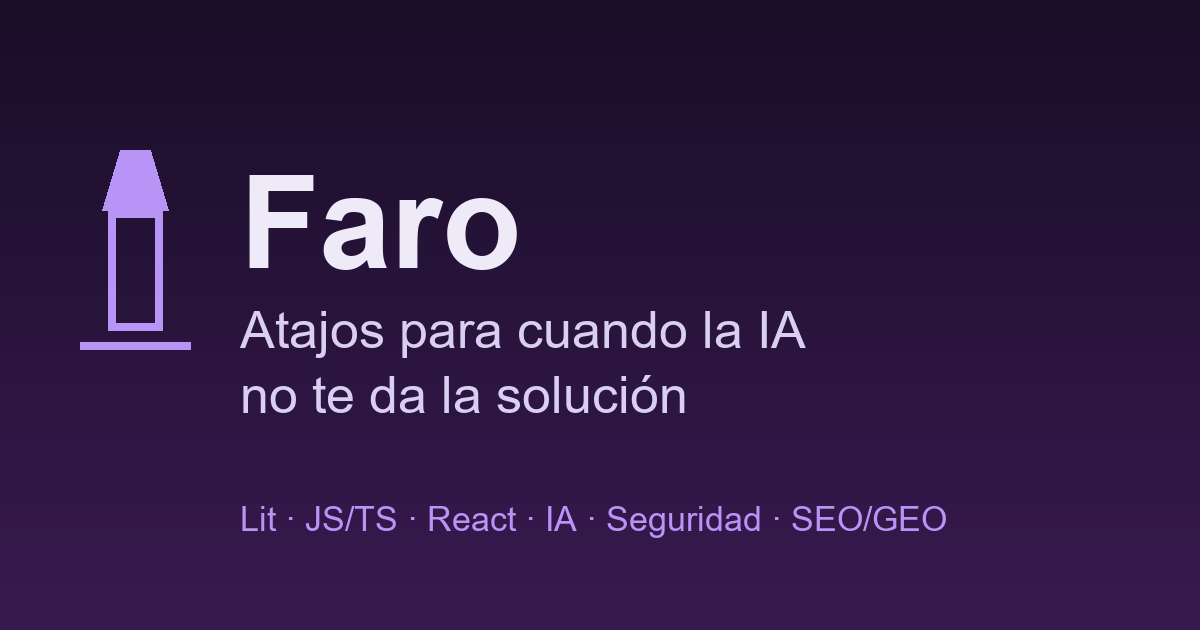
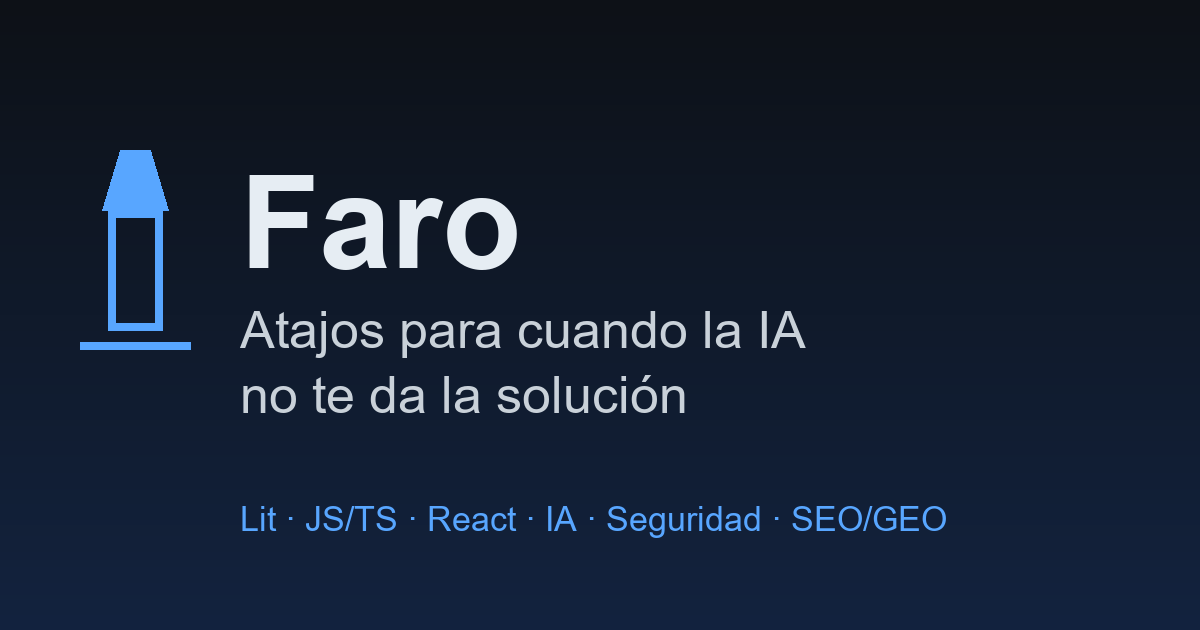
Paleta azul estilo herramientas de desarrollo (claro/oscuro) en lugar del morado

diff --git a/assets/style.css b/assets/style.css
@@ -1,11 +1,11 @@
-:root{--pl:#7c3aed;--pls:#efe7fd;--pd:#b794f6;--pds:#2f2352;
---bg:#f7f4fc;--surface:#fff;--surface-2:#f0ebf9;--text:#16131f;--muted:#645d78;--line:#e3dcf0;--primary:var(--pl);--primary-ink:#fff;--primary-soft:var(--pls);
---ok:#157f43;--ok-soft:#dff3e7;--bad:#c2362b;--bad-soft:#fbe6e3;--warn:#85560a;--warn-soft:#fff1cc;--ai-soft:#e8eefc;--ai:#3b5bdb;
---code-bg:#1b1625;--code-tx:#efeaf7;--k:#d19cff;--s:#8fdcae;--c:#8c82a3;--n:#f0c36a;--r:16px;--shadow:0 1px 2px rgba(20,22,40,.05),0 8px 22px rgba(20,22,40,.06);--top:60px}
-@media (prefers-color-scheme:dark){:root:not([data-theme="light"]){--bg:#120e1a;--surface:#1b1625;--surface-2:#251e33;--text:#efeaf7;--muted:#a79fba;--line:#332a45;--primary:var(--pd);--primary-ink:#14091f;--primary-soft:var(--pds);
---ok:#66d391;--ok-soft:#15301f;--bad:#ff9a90;--bad-soft:#3a1d1b;--warn:#f0c36a;--warn-soft:#382d12;--ai-soft:#1d2447;--ai:#9db1ff;--code-bg:#0e0a15;--shadow:0 1px 2px rgba(0,0,0,.4),0 8px 22px rgba(0,0,0,.3)}}
-:root[data-theme="dark"]{--bg:#120e1a;--surface:#1b1625;--surface-2:#251e33;--text:#efeaf7;--muted:#a79fba;--line:#332a45;--primary:var(--pd);--primary-ink:#14091f;--primary-soft:var(--pds);
---ok:#66d391;--ok-soft:#15301f;--bad:#ff9a90;--bad-soft:#3a1d1b;--warn:#f0c36a;--warn-soft:#382d12;--ai-soft:#1d2447;--ai:#9db1ff;--code-bg:#0e0a15;--shadow:0 1px 2px rgba(0,0,0,.4),0 8px 22px rgba(0,0,0,.3)}
+:root{--pl:#0969da;--pls:#ddf4ff;--pd:#58a6ff;--pds:#12233f;
+--bg:#f6f8fa;--surface:#fff;--surface-2:#eaeef2;--text:#1f2328;--muted:#59636e;--line:#d1d9e0;--primary:var(--pl);--primary-ink:#fff;--primary-soft:var(--pls);
+--ok:#1a7f37;--ok-soft:#dafbe1;--bad:#cf222e;--bad-soft:#ffebe9;--warn:#9a6700;--warn-soft:#fff8c5;--ai-soft:#fbefff;--ai:#8250df;
+--code-bg:#0d1117;--code-tx:#e6edf3;--k:#ff7b72;--s:#a5d6ff;--c:#8b949e;--n:#79c0ff;--r:12px;--shadow:0 1px 0 rgba(31,35,40,.04),0 3px 8px rgba(31,35,40,.06);--top:60px}
+@media (prefers-color-scheme:dark){:root:not([data-theme="light"]){--bg:#0d1117;--surface:#151b23;--surface-2:#212830;--text:#e6edf3;--muted:#9198a1;--line:#30363d;--primary:var(--pd);--primary-ink:#04152e;--primary-soft:var(--pds);
+--ok:#3fb950;--ok-soft:#12261e;--bad:#ff7b72;--bad-soft:#2d1214;--warn:#d29922;--warn-soft:#2a1f0a;--ai-soft:#251a3a;--ai:#d2a8ff;--code-bg:#010409;--shadow:0 0 0 1px rgba(240,246,252,.04)}}
+:root[data-theme="dark"]{--bg:#0d1117;--surface:#151b23;--surface-2:#212830;--text:#e6edf3;--muted:#9198a1;--line:#30363d;--primary:var(--pd);--primary-ink:#04152e;--primary-soft:var(--pds);
+--ok:#3fb950;--ok-soft:#12261e;--bad:#ff7b72;--bad-soft:#2d1214;--warn:#d29922;--warn-soft:#2a1f0a;--ai-soft:#251a3a;--ai:#d2a8ff;--code-bg:#010409;--shadow:0 0 0 1px rgba(240,246,252,.04)}
 *{box-sizing:border-box}html{scroll-padding-top:calc(var(--top) + 12px)}
 body{margin:0;background:var(--bg);color:var(--text);font:16px/1.65 system-ui,-apple-system,"Segoe UI",Roboto,sans-serif;-webkit-text-size-adjust:100%}
 a{color:var(--primary)}a:focus-visible,button:focus-visible,input:focus-visible,summary:focus-visible,textarea:focus-visible,.panel:focus-visible{outline:3px solid var(--primary);outline-offset:2px;border-radius:8px}
@@ -38,7 +38,7 @@ code{overflow-wrap:anywhere;font:.9em ui-monospace,SFMono-Regular,Consolas,monos
 .code{position:relative;margin:1em 0}.code pre{margin:0;background:var(--code-bg);color:var(--code-tx);border-radius:14px;padding:14px 16px;overflow:auto;line-height:1.5}
 .code code,.qc code{overflow-wrap:normal;background:none;padding:0;color:inherit;font-size:.88rem}
 .code[data-lang]:not([data-lang=""])::before{content:attr(data-lang);position:absolute;left:12px;top:-9px;background:var(--primary);color:var(--primary-ink);font-size:.7rem;font-weight:700;padding:0 8px;border-radius:6px;line-height:18px}
-.copy{position:absolute;right:8px;top:8px;min-height:32px;padding:0 10px;border:1px solid #4b3d66;border-radius:8px;background:#251e33;color:#d9cff0;font-size:.8rem;cursor:pointer}.copy:hover{background:#322748}
+.copy{position:absolute;right:8px;top:8px;min-height:32px;padding:0 10px;border:1px solid #30363d;border-radius:8px;background:#21262d;color:#c9d1d9;font-size:.8rem;cursor:pointer}.copy:hover{background:#30363d}
 .t-k{color:var(--k)}.t-s{color:var(--s)}.t-c{color:var(--c);font-style:italic}.t-n{color:var(--n)}
 .tbl{overflow-x:auto;margin:1em 0;border:1px solid var(--line);border-radius:12px}table{border-collapse:collapse;width:100%;font-size:.94rem}th,td{padding:9px 12px;border-bottom:1px solid var(--line);text-align:left;vertical-align:top}tr:last-child td{border-bottom:0}th{background:var(--surface-2)}
 .callout{margin:1.2em 0;padding:10px 16px;border:1px solid var(--line);border-left:4px solid var(--muted);background:var(--surface);border-radius:12px}.callout>b{display:block;font-size:.78rem;text-transform:uppercase;letter-spacing:.06em;color:var(--muted)}

diff --git a/build.py b/build.py
@@ -235,7 +235,7 @@ def shell(lang, pages, base, cur, title, desc, main, rel, alts, ld="", mdurl="")
 <meta name="robots" content="index,follow,max-snippet:-1,max-image-preview:large,max-video-preview:-1">
 <meta property="og:site_name" content="{SITE}"><meta property="og:title" content="{html.escape(full)}"><meta property="og:description" content="{d}"><meta property="og:type" content="{'article' if cur else 'website'}">
 <meta name="twitter:card" content="summary_large_image">{''.join(head)}
-<meta name="theme-color" content="#0b1b2b"><link rel="icon" href="{base}assets/icon.svg" type="image/svg+xml">
+<meta name="theme-color" content="#0d1117"><link rel="icon" href="{base}assets/icon.svg" type="image/svg+xml">
 <link rel="stylesheet" href="{base}assets/style.css">{ld}
 <script>document.documentElement.className='js';try{{var t=localStorage.getItem('faro-theme');if(t)document.documentElement.dataset.theme=t}}catch(e){{}}</script>
 </head><body data-base="{base}" data-search="{base}{purl(lang, 'search.json')}" data-copy="{esc(t['copy'])}" data-copied="{esc(t['copied'])}">
